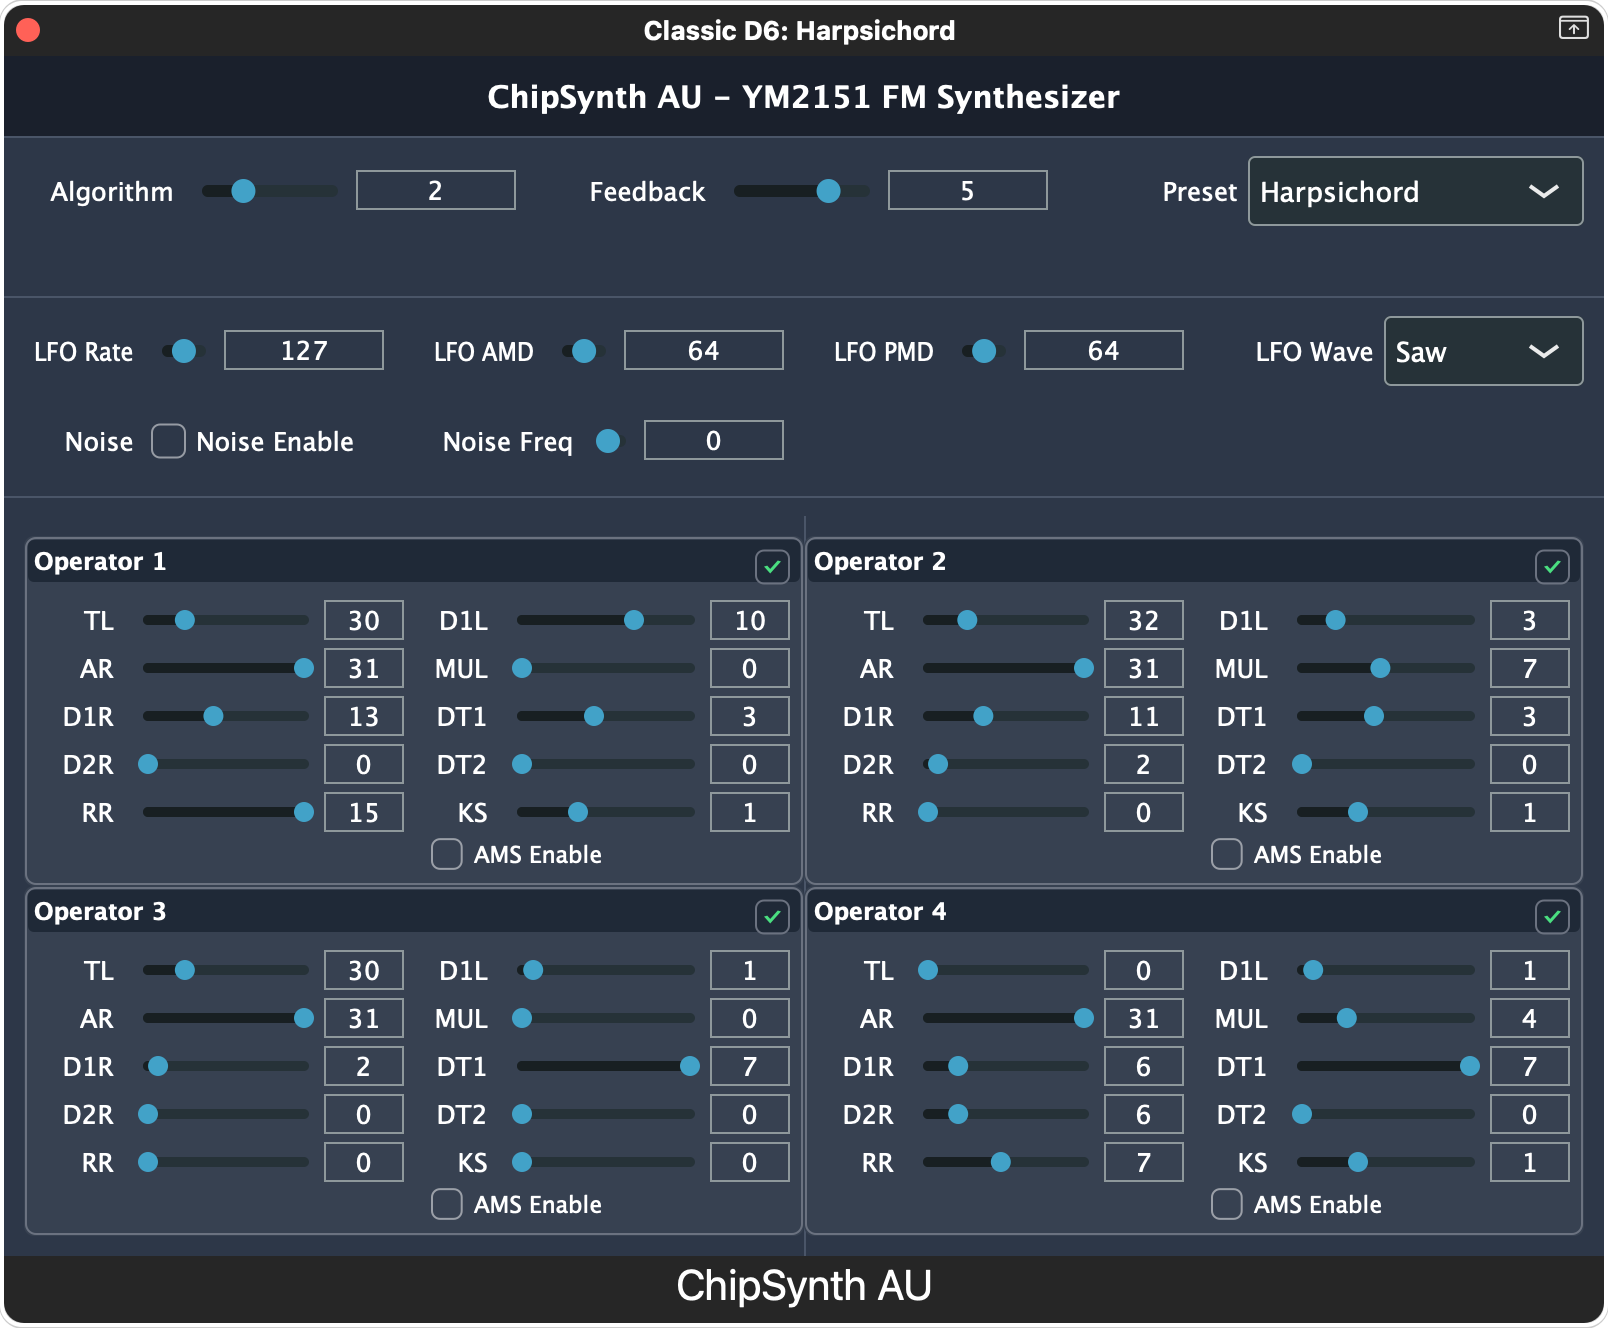
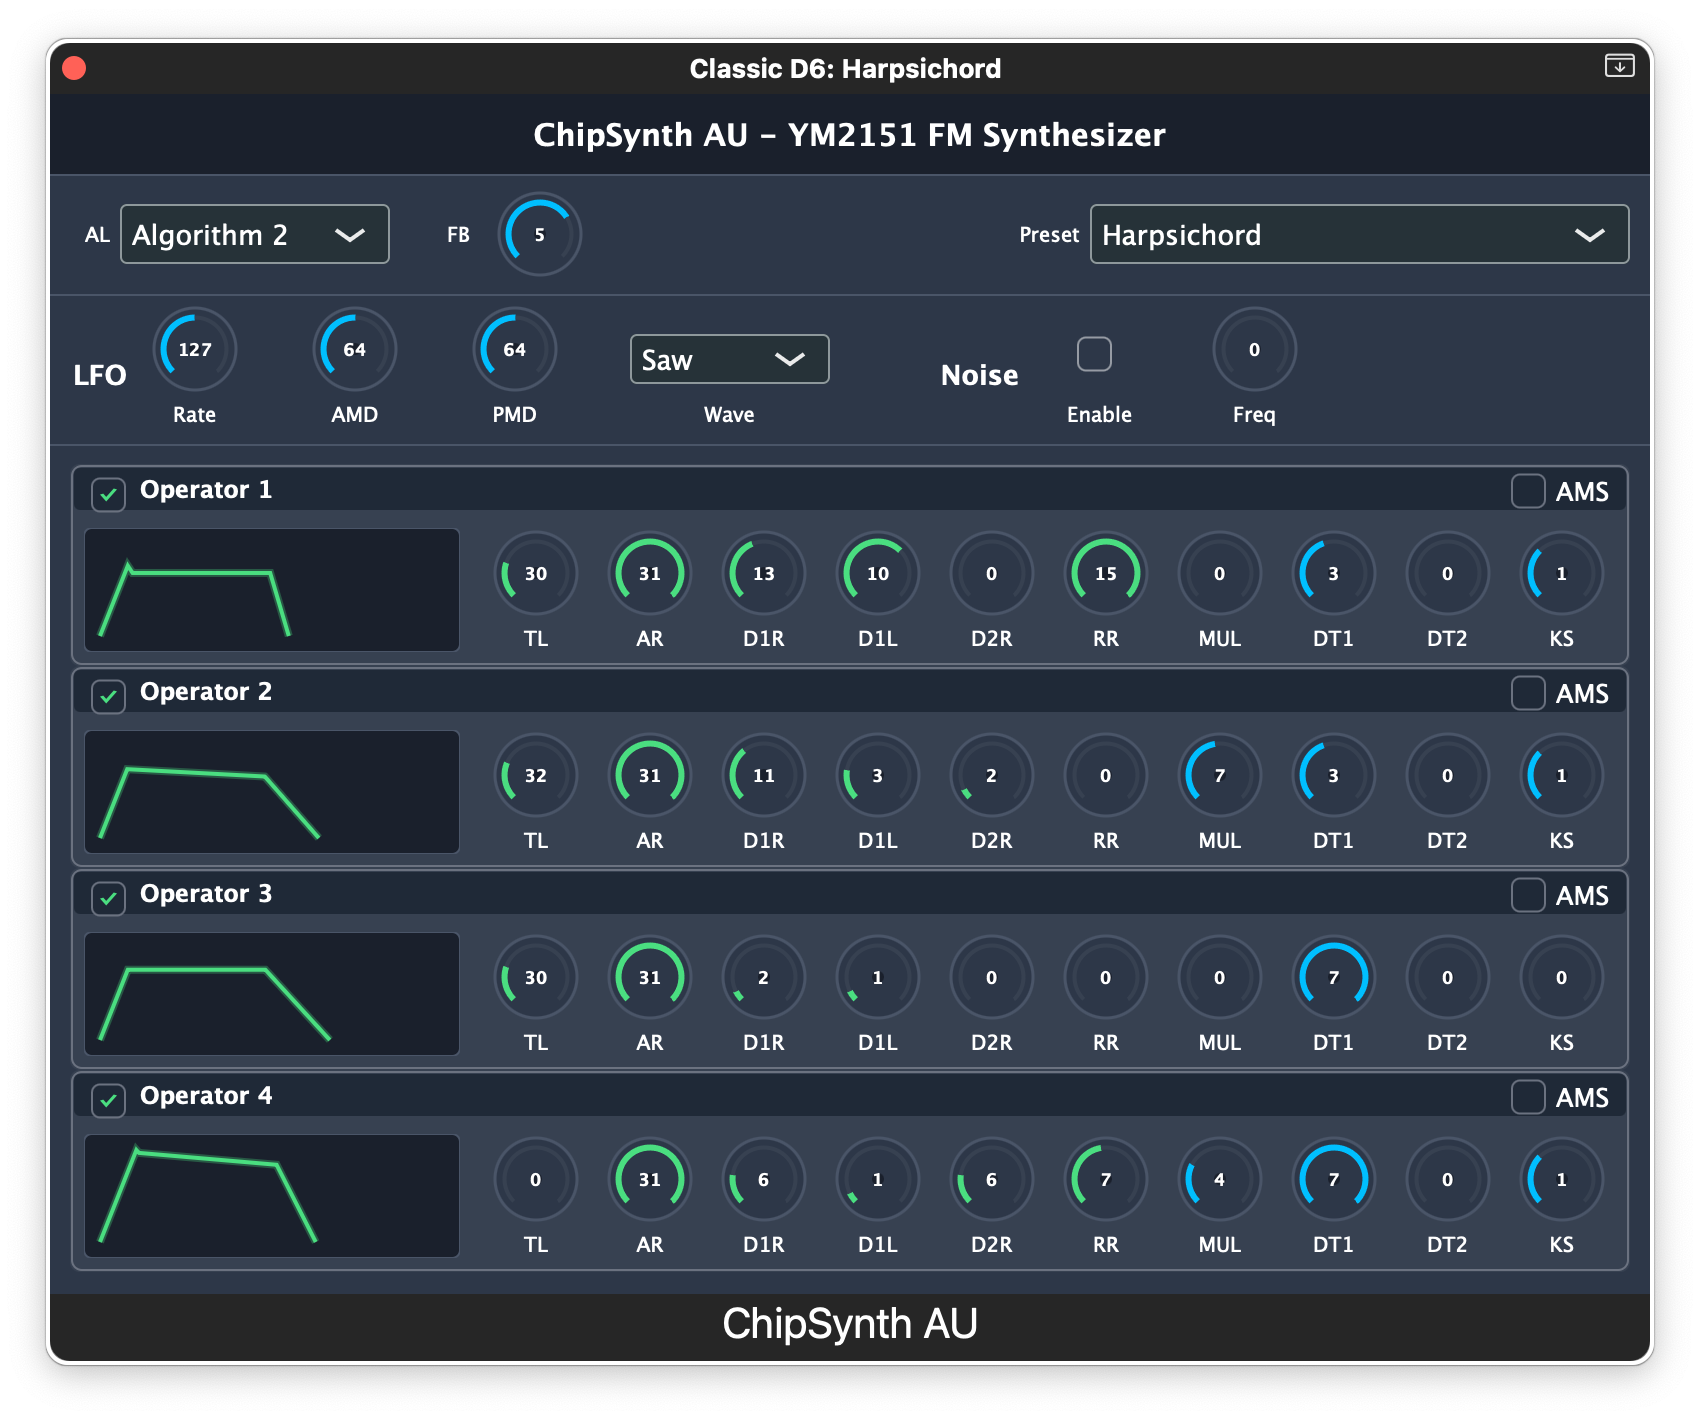
Complete LFO/Noise section UI reorganization with optimal spacing
- Reorganize LFO/Noise controls with larger section labels and individual control labels below components
- Implement separate positioning system for precise control over component and label placement
- Optimize knob sizes to match operator panel knobs exactly (45px)
- Fix dropdown and checkbox alignment issues with proper vertical centering
- Standardize all dropdown heights (AL, Preset, Wave) for visual consistency
- Adjust label spacing to match operator panel knob-to-label distances
- Add proper spacing between LFO and Noise sections for better visual organization
- Remove unnecessary section dividers and adjust remaining divider positions
- Apply fluorescent blue accent color to all LFO controls for visual grouping

🤖 Generated with [Claude Code](https://claude.ai/code)

diff --git a/src/ui/MainComponent.cpp b/src/ui/MainComponent.cpp
@@ -44,10 +44,9 @@ void MainComponent::paint(juce::Graphics& g)
     
     // Section dividers
     g.setColour(juce::Colour(0xff4a5568));
-    g.drawHorizontalLine(40, 0.0f, static_cast<float>(getWidth()));
-    g.drawHorizontalLine(100, 0.0f, static_cast<float>(getWidth()));  // Adjusted for reduced top area
-    g.drawHorizontalLine(160, 0.0f, static_cast<float>(getWidth()));  // LFO section divider (adjusted)
-    g.drawVerticalLine(getWidth() / 2, 170.0f, static_cast<float>(getHeight()));  // Vertical divider (adjusted)
+    g.drawHorizontalLine(40, 0.0f, static_cast<float>(getWidth()));   // After title
+    g.drawHorizontalLine(100, 0.0f, static_cast<float>(getWidth()));  // After global controls
+    g.drawHorizontalLine(175, 0.0f, static_cast<float>(getWidth())); // After LFO/Noise section (adjusted)
 }
 
 void MainComponent::resized()
@@ -68,11 +67,13 @@ void MainComponent::resized()
     // Right side: Preset selector
     auto presetArea = topArea.removeFromRight(350).reduced(10);
     
-    // Algorithm ComboBox (label on left, combo on right)
+    // Algorithm ComboBox (label on left, combo on right) - standardized height
     if (algorithmComboBox && algorithmLabel) {
         auto algLabelArea = algorithmArea.removeFromLeft(30);
         algorithmLabel->setBounds(algLabelArea);
-        algorithmComboBox->setBounds(algorithmArea);
+        // Center combo box vertically with standardized height
+        auto centeredComboArea = algorithmArea.withHeight(30).withCentre(algorithmArea.getCentre());
+        algorithmComboBox->setBounds(centeredComboArea);
     }
     
     // Feedback Knob
@@ -86,50 +87,81 @@ void MainComponent::resized()
     //     algorithmDisplay->setBounds(algorithmDisplayArea);
     // }
     
-    // Preset selector
+    // Preset selector - standardized height
     auto presetLabelArea = presetArea.removeFromLeft(60);
     presetLabel->setBounds(presetLabelArea);
-    presetComboBox->setBounds(presetArea);
+    // Center combo box vertically with standardized height
+    auto centeredPresetArea = presetArea.withHeight(30).withCentre(presetArea.getCentre());
+    presetComboBox->setBounds(centeredPresetArea);
     
     // LFO and Noise controls area
-    auto lfoArea = bounds.removeFromTop(60);
+    auto lfoArea = bounds.removeFromTop(75);
     
-    // LFO controls - 3 knobs + waveform selector
-    auto lfoRateArea = lfoArea.removeFromLeft(100);
+    // Calculate proper Y offset based on current bounds position
+    int baseY = lfoArea.getY();
+    
+    // Define control positions manually for better alignment
+    int startX = 50;  // Start after LFO label
+    int knobY = baseY + 5;    // Top position for knobs (relative to current area)
+    int labelY = baseY + 52;  // Closer to knobs to match operator spacing
+    int knobSize = 45; // Slightly smaller to match operator knobs exactly
+    int spacing = 80;  // Spacing between controls
+    
+    // LFO section label
+    if (lfoSectionLabel) {
+        lfoSectionLabel->setBounds(5, baseY + 15, 40, 50);
+    }
+    
+    // LFO Rate knob and label - positioned separately
     if (lfoRateKnob) {
-        lfoRateKnob->setBounds(lfoRateArea);
+        lfoRateKnob->setBounds(startX, knobY, knobSize, knobSize);
+    }
+    if (lfoRateLabel) {
+        lfoRateLabel->setBounds(startX, labelY, knobSize, 16);
     }
     
-    auto lfoAmdArea = lfoArea.removeFromLeft(100);
+    // LFO AMD knob and label - positioned separately
     if (lfoAmdKnob) {
-        lfoAmdKnob->setBounds(lfoAmdArea);
+        lfoAmdKnob->setBounds(startX + spacing, knobY, knobSize, knobSize);
+    }
+    if (lfoAmdLabel) {
+        lfoAmdLabel->setBounds(startX + spacing, labelY, knobSize, 16);
     }
     
-    auto lfoPmdArea = lfoArea.removeFromLeft(100);
+    // LFO PMD knob and label - positioned separately
     if (lfoPmdKnob) {
-        lfoPmdKnob->setBounds(lfoPmdArea);
+        lfoPmdKnob->setBounds(startX + spacing * 2, knobY, knobSize, knobSize);
+    }
+    if (lfoPmdLabel) {
+        lfoPmdLabel->setBounds(startX + spacing * 2, labelY, knobSize, 16);
     }
     
-    // LFO Waveform
-    auto lfoWaveformArea = lfoArea.removeFromLeft(170);
-    auto waveformLabelArea = lfoWaveformArea.removeFromLeft(45);
-    auto comboArea = lfoWaveformArea.reduced(5);
-    lfoWaveformLabel->setBounds(waveformLabelArea);
-    lfoWaveformComboBox->setBounds(comboArea);
+    // LFO Waveform dropdown and label - positioned separately
+    int waveX = startX + spacing * 3;
+    lfoWaveformComboBox->setBounds(waveX, knobY + 15, 100, 25); // Center vertically with knobs
+    lfoWaveformLabel->setBounds(waveX, labelY, 100, 16);
     
-    // Noise controls
-    auto noiseArea = lfoArea.removeFromLeft(200);
+    // Noise section - with gap
+    int noiseStartX = waveX + 150; // Gap between LFO and Noise
     
-    // Noise Enable
-    auto noiseEnableArea = noiseArea.removeFromLeft(110);
-    auto noiseEnableLabelArea = noiseEnableArea.removeFromLeft(40);
-    noiseEnableLabel->setBounds(noiseEnableLabelArea);
-    noiseEnableButton->setBounds(noiseEnableArea.reduced(2));
+    // Noise section label
+    if (noiseSectionLabel) {
+        noiseSectionLabel->setBounds(noiseStartX, baseY + 15, 50, 50);
+    }
     
-    // Noise Frequency
-    auto noiseFreqArea = noiseArea;
+    // Noise Enable checkbox and label - positioned separately
+    int noiseControlX = noiseStartX + 60;
+    noiseEnableButton->setBounds(noiseControlX + 10, knobY + 15, 30, 20); // Wider area to prevent cutoff
+    if (noiseEnableLabel) {
+        noiseEnableLabel->setBounds(noiseControlX, labelY, 50, 16);
+    }
+    
+    // Noise Frequency knob and label - positioned separately
     if (noiseFrequencyKnob) {
-        noiseFrequencyKnob->setBounds(noiseFreqArea);
+        noiseFrequencyKnob->setBounds(noiseControlX + spacing, knobY, knobSize, knobSize);
+    }
+    if (noiseFreqLabel) {
+        noiseFreqLabel->setBounds(noiseControlX + spacing, labelY, knobSize, 16);
     }
     
     // Operator panels area - use all remaining space
@@ -221,12 +253,26 @@ void MainComponent::setupGlobalControls()
 
 void MainComponent::setupLfoControls()
 {
-    // LFO Rate knob
-    lfoRateKnob = std::make_unique<RotaryKnob>("LFO Rate");
+    // LFO section label
+    lfoSectionLabel = std::make_unique<juce::Label>("", "LFO");
+    lfoSectionLabel->setColour(juce::Label::textColourId, juce::Colours::white);
+    lfoSectionLabel->setJustificationType(juce::Justification::centred); // Center both horizontally and vertically
+    lfoSectionLabel->setFont(juce::Font(16.0f, juce::Font::bold));
+    addAndMakeVisible(*lfoSectionLabel);
+    
+    // LFO Rate knob (without label - will be added separately)
+    lfoRateKnob = std::make_unique<RotaryKnob>("");
     lfoRateKnob->setRange(0, 255, 1);
     lfoRateKnob->setValue(0);
     lfoRateKnob->setAccentColour(juce::Colour(0xff00bfff)); // Fluorescent blue
     addAndMakeVisible(*lfoRateKnob);
+    
+    // LFO Rate label (below knob)
+    lfoRateLabel = std::make_unique<juce::Label>("", "Rate");
+    lfoRateLabel->setColour(juce::Label::textColourId, juce::Colours::white);
+    lfoRateLabel->setJustificationType(juce::Justification::centred);
+    lfoRateLabel->setFont(juce::Font(12.0f));
+    addAndMakeVisible(*lfoRateLabel);
     
     // Create hidden slider for LFO Rate parameter
     lfoRateHiddenSlider = std::make_unique<juce::Slider>();
@@ -264,12 +310,19 @@ void MainComponent::setupLfoControls()
     lfoRateAttachment = std::make_unique<juce::AudioProcessorValueTreeState::SliderAttachment>(
         audioProcessor.getParameters(), ParamID::Global::LfoRate, *lfoRateHiddenSlider);
     
-    // LFO AMD knob
-    lfoAmdKnob = std::make_unique<RotaryKnob>("LFO AMD");
+    // LFO AMD knob (without label - will be added separately)
+    lfoAmdKnob = std::make_unique<RotaryKnob>("");
     lfoAmdKnob->setRange(0, 127, 1);
     lfoAmdKnob->setValue(0);
     lfoAmdKnob->setAccentColour(juce::Colour(0xff00bfff)); // Fluorescent blue
     addAndMakeVisible(*lfoAmdKnob);
+    
+    // LFO AMD label (below knob)
+    lfoAmdLabel = std::make_unique<juce::Label>("", "AMD");
+    lfoAmdLabel->setColour(juce::Label::textColourId, juce::Colours::white);
+    lfoAmdLabel->setJustificationType(juce::Justification::centred);
+    lfoAmdLabel->setFont(juce::Font(12.0f));
+    addAndMakeVisible(*lfoAmdLabel);
     
     // Create hidden slider for LFO AMD parameter
     lfoAmdHiddenSlider = std::make_unique<juce::Slider>();
@@ -307,12 +360,19 @@ void MainComponent::setupLfoControls()
     lfoAmdAttachment = std::make_unique<juce::AudioProcessorValueTreeState::SliderAttachment>(
         audioProcessor.getParameters(), ParamID::Global::LfoAmd, *lfoAmdHiddenSlider);
     
-    // LFO PMD knob
-    lfoPmdKnob = std::make_unique<RotaryKnob>("LFO PMD");
+    // LFO PMD knob (without label - will be added separately)
+    lfoPmdKnob = std::make_unique<RotaryKnob>("");
     lfoPmdKnob->setRange(0, 127, 1);
     lfoPmdKnob->setValue(0);
     lfoPmdKnob->setAccentColour(juce::Colour(0xff00bfff)); // Fluorescent blue
     addAndMakeVisible(*lfoPmdKnob);
+    
+    // LFO PMD label (below knob)
+    lfoPmdLabel = std::make_unique<juce::Label>("", "PMD");
+    lfoPmdLabel->setColour(juce::Label::textColourId, juce::Colours::white);
+    lfoPmdLabel->setJustificationType(juce::Justification::centred);
+    lfoPmdLabel->setFont(juce::Font(12.0f));
+    addAndMakeVisible(*lfoPmdLabel);
     
     // Create hidden slider for LFO PMD parameter
     lfoPmdHiddenSlider = std::make_unique<juce::Slider>();
@@ -359,35 +419,50 @@ void MainComponent::setupLfoControls()
     lfoWaveformComboBox->setSelectedId(1);
     addAndMakeVisible(*lfoWaveformComboBox);
     
-    lfoWaveformLabel = std::make_unique<juce::Label>("", "LFO\nWave");
+    lfoWaveformLabel = std::make_unique<juce::Label>("", "Wave");
     lfoWaveformLabel->setColour(juce::Label::textColourId, juce::Colours::white);
-    lfoWaveformLabel->setJustificationType(juce::Justification::centredRight);
+    lfoWaveformLabel->setJustificationType(juce::Justification::centred);
     lfoWaveformLabel->setFont(juce::Font(12.0f));
     addAndMakeVisible(*lfoWaveformLabel);
     
     lfoWaveformAttachment = std::make_unique<juce::AudioProcessorValueTreeState::ComboBoxAttachment>(
         audioProcessor.getParameters(), ParamID::Global::LfoWaveform, *lfoWaveformComboBox);
     
-    // Noise Enable toggle button
+    // Noise section label
+    noiseSectionLabel = std::make_unique<juce::Label>("", "Noise");
+    noiseSectionLabel->setColour(juce::Label::textColourId, juce::Colours::white);
+    noiseSectionLabel->setJustificationType(juce::Justification::centred); // Center both horizontally and vertically
+    noiseSectionLabel->setFont(juce::Font(16.0f, juce::Font::bold));
+    addAndMakeVisible(*noiseSectionLabel);
+    
+    // Noise Enable toggle button (without text - will be labeled separately)
     noiseEnableButton = std::make_unique<juce::ToggleButton>();
-    noiseEnableButton->setButtonText("Enable");
+    noiseEnableButton->setButtonText("");
     noiseEnableButton->setColour(juce::ToggleButton::textColourId, juce::Colours::white);
     addAndMakeVisible(*noiseEnableButton);
     
-    noiseEnableLabel = std::make_unique<juce::Label>("", "Noise");
+    // Noise Enable label (below button)
+    noiseEnableLabel = std::make_unique<juce::Label>("", "Enable");
     noiseEnableLabel->setColour(juce::Label::textColourId, juce::Colours::white);
-    noiseEnableLabel->setJustificationType(juce::Justification::centredRight);
+    noiseEnableLabel->setJustificationType(juce::Justification::centred);
     noiseEnableLabel->setFont(juce::Font(12.0f));
     addAndMakeVisible(*noiseEnableLabel);
     
     noiseEnableAttachment = std::make_unique<juce::AudioProcessorValueTreeState::ButtonAttachment>(
         audioProcessor.getParameters(), ParamID::Global::NoiseEnable, *noiseEnableButton);
     
-    // Noise Frequency knob
-    noiseFrequencyKnob = std::make_unique<RotaryKnob>("Noise Freq");
+    // Noise Frequency knob (without label - will be added separately)
+    noiseFrequencyKnob = std::make_unique<RotaryKnob>("");
     noiseFrequencyKnob->setRange(0, 31, 1);
     noiseFrequencyKnob->setValue(16);
     addAndMakeVisible(*noiseFrequencyKnob);
+    
+    // Noise Frequency label (below knob)
+    noiseFreqLabel = std::make_unique<juce::Label>("", "Freq");
+    noiseFreqLabel->setColour(juce::Label::textColourId, juce::Colours::white);
+    noiseFreqLabel->setJustificationType(juce::Justification::centred);
+    noiseFreqLabel->setFont(juce::Font(12.0f));
+    addAndMakeVisible(*noiseFreqLabel);
     
     // Create hidden slider for Noise Frequency parameter
     noiseFrequencyHiddenSlider = std::make_unique<juce::Slider>();

diff --git a/src/ui/MainComponent.h b/src/ui/MainComponent.h
@@ -40,11 +40,17 @@ private:
     std::unique_ptr<RotaryKnob> lfoPmdKnob;
     std::unique_ptr<juce::ComboBox> lfoWaveformComboBox;
     std::unique_ptr<juce::Label> lfoWaveformLabel;
+    std::unique_ptr<juce::Label> lfoSectionLabel;
+    std::unique_ptr<juce::Label> lfoRateLabel;
+    std::unique_ptr<juce::Label> lfoAmdLabel;
+    std::unique_ptr<juce::Label> lfoPmdLabel;
     
     // Noise controls
     std::unique_ptr<juce::ToggleButton> noiseEnableButton;
     std::unique_ptr<juce::Label> noiseEnableLabel;
     std::unique_ptr<RotaryKnob> noiseFrequencyKnob;
+    std::unique_ptr<juce::Label> noiseSectionLabel;
+    std::unique_ptr<juce::Label> noiseFreqLabel;
     
     // Operator panels
     std::array<std::unique_ptr<OperatorPanel>, 4> operatorPanels;
